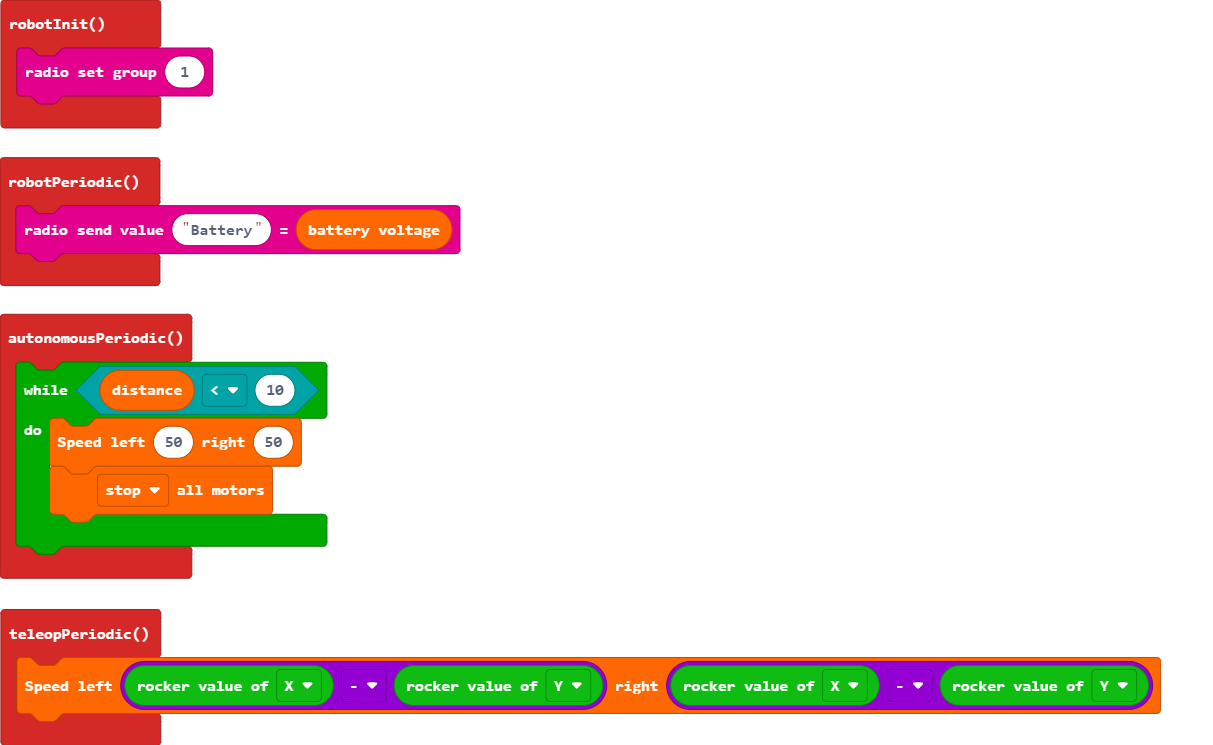
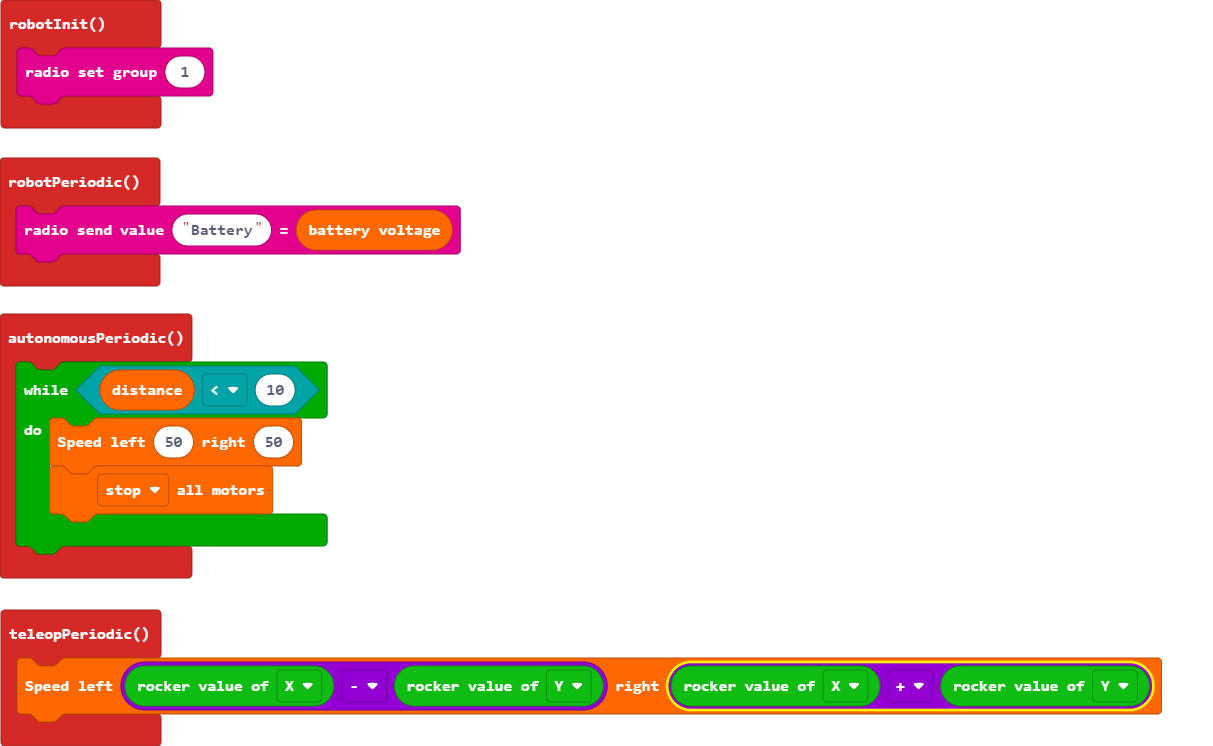
Update main.blocks, main.ts

diff --git a/main.ts b/main.ts
@@ -5,7 +5,7 @@ Oscats.robotInit(function () {
     radio.setGroup(1)
 })
 Oscats.teleopPeriodic(function () {
-    Rover.MotorRunDual(joystickbit.getRockerValue(joystickbit.rockerType.X) - joystickbit.getRockerValue(joystickbit.rockerType.Y), joystickbit.getRockerValue(joystickbit.rockerType.X) - joystickbit.getRockerValue(joystickbit.rockerType.Y))
+    Rover.MotorRunDual(joystickbit.getRockerValue(joystickbit.rockerType.X) - joystickbit.getRockerValue(joystickbit.rockerType.Y), joystickbit.getRockerValue(joystickbit.rockerType.X) + joystickbit.getRockerValue(joystickbit.rockerType.Y))
 })
 Oscats.autonomousPeriodic(function () {
     while (Rover.Ultrasonic() < 10) {
